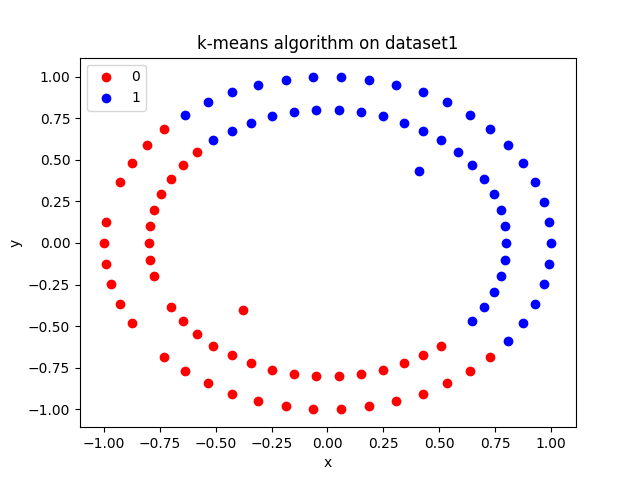
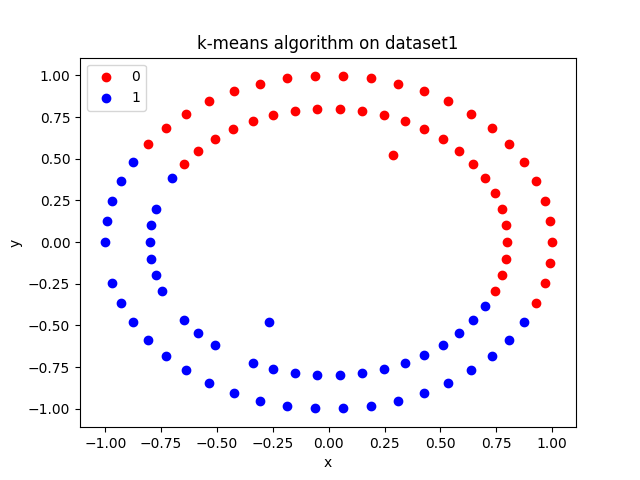
Somewhat working code for kernelized k means

diff --git a/hw4/problem2.py b/hw4/problem2.py
@@ -4,6 +4,7 @@ import numpy as np
 import matplotlib.pyplot as plt
 from sklearn.datasets import make_circles, make_moons, make_blobs
 from sklearn.metrics.pairwise import linear_kernel, polynomial_kernel, rbf_kernel
+import pickle
 
 def euclidean(p1,p2):
 	'''
@@ -45,40 +46,41 @@ def lloyds(data,labels,k):
 
 	return labeled_data, clusters
 
-def plot_2(data, labels, labeled_data,clusters,n):
+def plot_2(data, labels, labeled_data,clusters,n,plot_actual=False):
 	'''
 	Plot for examples where k=2
 	'''
-	# Plot actual centers and points
-	orig_labeled_data = [[],[]]
-	for (point,label) in zip(data,labels):
-		orig_labeled_data[label].append(point)
-	fig = plt.figure()
-	ax1 = fig.add_subplot(111)
-	label0 = orig_labeled_data[0]
-	label1 = orig_labeled_data[1]
-	x_vals0 = []
-	y_vals0 = []
-	x_vals1 = []
-	y_vals1 = []
-	for (p0,p1) in zip(label0,label1):
-		x_vals0.append(p0[0])
-		y_vals0.append(p0[1])
-		x_vals1.append(p1[0])
-		y_vals1.append(p1[1])
-	orig_clusters = [np.mean(orig_labeled_data[0],axis=0),np.mean(orig_labeled_data[1],axis=0)]
-	ax1.scatter(x_vals0, y_vals0, c='r', label=0)
-	ax1.scatter(orig_clusters[0][0],orig_clusters[0][1], c='r')
-	ax1.scatter(x_vals1, y_vals1, c='b', label=1)
-	ax1.scatter(orig_clusters[1][0],orig_clusters[1][1], c='b')
-	plt.xlabel('x')
-	plt.ylabel('y')
-	title = "dataset" + str(n)
-	plt.title(title)
-	plt.legend(loc='upper left');
-	name = "actual" + str(n) + ".png"
-	plt.savefig(name)
-	print("Finished plotting actual")
+	# Plot actual centers and points (only if specified)
+	if plot_actual:
+		orig_labeled_data = [[],[]]
+		for (point,label) in zip(data,labels):
+			orig_labeled_data[label].append(point)
+		fig = plt.figure()
+		ax1 = fig.add_subplot(111)
+		label0 = orig_labeled_data[0]
+		label1 = orig_labeled_data[1]
+		x_vals0 = []
+		y_vals0 = []
+		x_vals1 = []
+		y_vals1 = []
+		for (p0,p1) in zip(label0,label1):
+			x_vals0.append(p0[0])
+			y_vals0.append(p0[1])
+			x_vals1.append(p1[0])
+			y_vals1.append(p1[1])
+		orig_clusters = [np.mean(orig_labeled_data[0],axis=0),np.mean(orig_labeled_data[1],axis=0)]
+		ax1.scatter(x_vals0, y_vals0, c='r', label=0)
+		ax1.scatter(orig_clusters[0][0],orig_clusters[0][1], c='r')
+		ax1.scatter(x_vals1, y_vals1, c='b', label=1)
+		ax1.scatter(orig_clusters[1][0],orig_clusters[1][1], c='b')
+		plt.xlabel('x')
+		plt.ylabel('y')
+		title = "dataset" + str(n)
+		plt.title(title)
+		plt.legend(loc='upper left');
+		name = "actual" + str(n) + ".png"
+		plt.savefig(name)
+		print("Finished plotting actual")
 
 	# Plot predicted centers and points
 	fig = plt.figure()
@@ -107,48 +109,49 @@ def plot_2(data, labels, labeled_data,clusters,n):
 	plt.savefig(name)
 	print("Finished plotting predicted")
 
-def plot_3(data, labels, labeled_data,clusters,n):
+def plot_3(data, labels, labeled_data,clusters,n,plot_actual=False):
 	'''
 	Plot for examples where k=3
 	'''
-	# Plot actual centers and points
-	orig_labeled_data = [[],[],[]]
-	for (point,label) in zip(data,labels):
-		orig_labeled_data[label].append(point)
-	fig = plt.figure()
-	ax1 = fig.add_subplot(111)
-	label0 = orig_labeled_data[0]
-	label1 = orig_labeled_data[1]
-	label2 = orig_labeled_data[2]
-	x_vals0 = []
-	y_vals0 = []
-	x_vals1 = []
-	y_vals1 = []
-	x_vals2 = []
-	y_vals2 = []
-	for (p0,p1) in zip(label0,label1):
-		x_vals0.append(p0[0])
-		y_vals0.append(p0[1])
-		x_vals1.append(p1[0])
-		y_vals1.append(p1[1])
-	for p2 in label2:
-		x_vals2.append(p2[0])
-		y_vals2.append(p2[1])
-	orig_clusters = [np.mean(orig_labeled_data[0],axis=0),np.mean(orig_labeled_data[1],axis=0),np.mean(orig_labeled_data[2],axis=0)]
-	ax1.scatter(x_vals0, y_vals0, c='r', label=0)
-	ax1.scatter(orig_clusters[0][0],orig_clusters[0][1], c='r')
-	ax1.scatter(x_vals1, y_vals1, c='b', label=1)
-	ax1.scatter(orig_clusters[1][0],orig_clusters[1][1], c='b')
-	ax1.scatter(x_vals2, y_vals2, c='g', label=2)
-	ax1.scatter(orig_clusters[2][0],orig_clusters[2][1], c='g')
-	plt.xlabel('x')
-	plt.ylabel('y')
-	title = "dataset" + str(n)
-	plt.title(title)
-	plt.legend(loc='upper left');
-	name = "actual" + str(n) + ".png"
-	plt.savefig(name)
-	print("Finished plotting actual")
+	# Plot actual centers and points (only if specified)
+	if plot_actual:
+		orig_labeled_data = [[],[],[]]
+		for (point,label) in zip(data,labels):
+			orig_labeled_data[label].append(point)
+		fig = plt.figure()
+		ax1 = fig.add_subplot(111)
+		label0 = orig_labeled_data[0]
+		label1 = orig_labeled_data[1]
+		label2 = orig_labeled_data[2]
+		x_vals0 = []
+		y_vals0 = []
+		x_vals1 = []
+		y_vals1 = []
+		x_vals2 = []
+		y_vals2 = []
+		for (p0,p1) in zip(label0,label1):
+			x_vals0.append(p0[0])
+			y_vals0.append(p0[1])
+			x_vals1.append(p1[0])
+			y_vals1.append(p1[1])
+		for p2 in label2:
+			x_vals2.append(p2[0])
+			y_vals2.append(p2[1])
+		orig_clusters = [np.mean(orig_labeled_data[0],axis=0),np.mean(orig_labeled_data[1],axis=0),np.mean(orig_labeled_data[2],axis=0)]
+		ax1.scatter(x_vals0, y_vals0, c='r', label=0)
+		ax1.scatter(orig_clusters[0][0],orig_clusters[0][1], c='r')
+		ax1.scatter(x_vals1, y_vals1, c='b', label=1)
+		ax1.scatter(orig_clusters[1][0],orig_clusters[1][1], c='b')
+		ax1.scatter(x_vals2, y_vals2, c='g', label=2)
+		ax1.scatter(orig_clusters[2][0],orig_clusters[2][1], c='g')
+		plt.xlabel('x')
+		plt.ylabel('y')
+		title = "dataset" + str(n)
+		plt.title(title)
+		plt.legend(loc='upper left');
+		name = "actual" + str(n) + ".png"
+		plt.savefig(name)
+		print("Finished plotting actual")
 
 	# Plot predicted centers and points
 	fig = plt.figure()
@@ -185,12 +188,6 @@ def plot_3(data, labels, labeled_data,clusters,n):
 	plt.savefig(name)
 	print("Finished plotting predicted")
 
-def distance(kernel):
-	'''
-	Measuring distance in kernel space
-	'''
-	pass
-
 def kernel(data, labels, k, kernel):
 	'''
 	Kernelized k-means
@@ -202,7 +199,7 @@ def kernel(data, labels, k, kernel):
 
 	# Repeat till no more changes occur
 	iteration = 1
-	labeled_data = [[],[],[]]
+	labeled_data = [ [] for i in range(k) ]
 	for index, label in enumerate(labels):
 		labeled_data[label].append(index)
 
@@ -211,7 +208,7 @@ def kernel(data, labels, k, kernel):
 	if kernel is 'lin':
 		kernel_vals = linear_kernel(data,data)
 	if kernel is 'poly':
-		kernel_vals = polynomial_kernel(data,data)
+		kernel_vals = polynomial_kernel(data,data,degree=2)
 	if kernel is 'rbf':
 		kernel_vals = rbf_kernel(data,data)
 		
@@ -233,7 +230,7 @@ def kernel(data, labels, k, kernel):
 					for i3b in labeled_data[i]:
 						d3 += kernel_vals[i3a][i3b]
 				d3 = d3 / math.pow(len(labeled_data[i]),2)
-				d = d1 + d2 + d3
+				d = d1 - d2 + d3
 				if d < min_dist:
 					min_dist = d
 					label = i
@@ -259,6 +256,9 @@ def kernel(data, labels, k, kernel):
 	return labeled_data, clusters
 
 def ind_to_pt(data,labeled_data,k):
+	'''
+	Converts indices of points to actual data points
+	'''
 	new_labeled_data = [ [] for i in range(k)]
 	for label in range(len(labeled_data)):
 		for index in labeled_data[label]:
@@ -267,25 +267,64 @@ def ind_to_pt(data,labeled_data,k):
 
 
 if __name__ == "__main__":
-	data1, labels1 = make_circles()
-	# labeled_data1, clusters1 = lloyds(data1,labels1,2)
-	# plot_2(data1, labels1, labeled_data1, clusters1,1)
+	## K-MEANS ALGORITHM
+	# DATASET 1
+	# data1, labels1 = make_circles()
+	# dataset1 = [data1, labels1]
+	# pickle.dump(dataset1, open("dataset1.pkl", "wb"))
+	dataset1 = pickle.load(open("dataset1.pkl", "rb"))
+	data1,labels1 = dataset1
+	labeled_data1, clusters1 = lloyds(data1,labels1,2)
+	plot_2(data1, labels1, labeled_data1, clusters1,1,True)
 
+	# DATASET 2
 	# data2, labels2 = make_moons()
-	# labeled_data2, clusters2 = lloyds(data2,labels2,2)
-	# plot_2(data2, labels2, labeled_data2, clusters2,2)
+	# dataset2 = [data2, labels2]
+	# pickle.dump(dataset2, open("dataset2.pkl", "wb"))
+	dataset2 = pickle.load(open("dataset2.pkl", "rb"))
+	data2,labels2 = dataset2
+	labeled_data2, clusters2 = lloyds(data2,labels2,2)
+	plot_2(data2, labels2, labeled_data2, clusters2,2,True)
 
-	# data3, labels3 = make_blobs(cluster_std=[4, 4, 4],random_state=8)
-	# labeled_data3, clusters3 = lloyds(data3,labels3,3)
-	# plot_3(data3,labels3, labeled_data3, clusters3,3)
+	# DATASET 2
+	# data3, labels3 = make_blobs(cluster_std=[5, 5, 5],random_state=8)
+	# dataset3 = [data3, labels3]
+	# pickle.dump(dataset3, open("dataset3.pkl", "wb"))
+	dataset3 = pickle.load(open("dataset3.pkl", "rb"))
+	data3,labels3 = dataset3
+	labeled_data3, clusters3 = lloyds(data3,labels3,3)
+	plot_3(data3,labels3, labeled_data3, clusters3,3,True)
 
-	# labeled_data1_lin, clusters1_lin = kernel(data1,labels1,2,'lin')
-	# labeled_data1_lin1 = ind_to_pt(data1,labeled_data1_lin,2)
-	# plot_2(data1, labels1, labeled_data1_lin1, clusters1_lin, '1 (linear kernel)')
+	## KERNELIZED K-MEANS ALGORITHM
+	# DATASET 1 - linear, polynomial, rbf kernels
+	labeled_data1_lin, clusters1_lin = kernel(data1,labels1,2,'lin')
+	labeled_data1_lin1 = ind_to_pt(data1,labeled_data1_lin,2)
+	plot_2(data1, labels1, labeled_data1_lin1, clusters1_lin, '1 (linear kernel)')
 	labeled_data1_poly, clusters1_poly = kernel(data1,labels1,2,'poly')
-	# labeled_data1_poly1 = ind_to_pt(data1,labeled_data1_poly,2)
-	# plot_2(data1, labels1, labeled_data1_poly1, clusters1_poly, '1 (polynomial kernel)')
-	# labeled_data1_rbf, clusters1_rbf = kernel(data1,labels1,2,'rbf')
-	# labeled_data1_rbf1 = ind_to_pt(data1,labeled_data1_rbf,2)
-	# plot_2(data1, labels1, labeled_data1_rbf1, clusters1_rbf, '1 (rbf kernel)')
+	labeled_data1_poly1 = ind_to_pt(data1,labeled_data1_poly,2)
+	plot_2(data1, labels1, labeled_data1_poly1, clusters1_poly, '1 (polynomial kernel)')
+	labeled_data1_rbf, clusters1_rbf = kernel(data1,labels1,2,'rbf')
+	labeled_data1_rbf1 = ind_to_pt(data1,labeled_data1_rbf,2)
+	plot_2(data1, labels1, labeled_data1_rbf1, clusters1_rbf, '1 (rbf kernel)')
 
+	# DATASET 2 - linear, polynomial, rbf kernels
+	labeled_data2_lin, clusters2_lin = kernel(data2,labels2,2,'lin')
+	labeled_data2_lin2 = ind_to_pt(data2,labeled_data2_lin,2)
+	plot_2(data2, labels2, labeled_data2_lin2, clusters2_lin, '2 (linear kernel)')
+	labeled_data2_poly, clusters2_poly = kernel(data2,labels2,2,'poly')
+	labeled_data2_poly2 = ind_to_pt(data2,labeled_data2_poly,2)
+	plot_2(data2, labels2, labeled_data2_poly2, clusters2_poly, '2 (polynomial kernel)')
+	labeled_data2_rbf, clusters2_rbf = kernel(data2,labels2,2,'rbf')
+	labeled_data2_rbf2 = ind_to_pt(data2,labeled_data2_rbf,2)
+	plot_2(data2, labels2, labeled_data2_rbf2, clusters2_rbf, '2 (rbf kernel)')
+
+	# DATASET 3 - linear, polynomial, rbf kernels
+	labeled_data3_lin, clusters3_lin = kernel(data3,labels3,3,'lin')
+	labeled_data3_lin3 = ind_to_pt(data3,labeled_data3_lin,3)
+	plot_3(data3, labels3, labeled_data3_lin3, clusters3_lin, '3 (linear kernel)')
+	labeled_data3_poly, clusters3_poly = kernel(data3,labels3,3,'poly')
+	labeled_data3_poly3 = ind_to_pt(data3,labeled_data3_poly,3)
+	plot_3(data3, labels3, labeled_data3_poly3, clusters3_poly, '3 (polynomial kernel)')
+	labeled_data3_rbf, clusters3_rbf = kernel(data3,labels3,3,'rbf')
+	labeled_data3_rbf3 = ind_to_pt(data3,labeled_data3_rbf,3)
+	plot_3(data3, labels3, labeled_data3_rbf3, clusters3_rbf, '3 (rbf kernel)')
